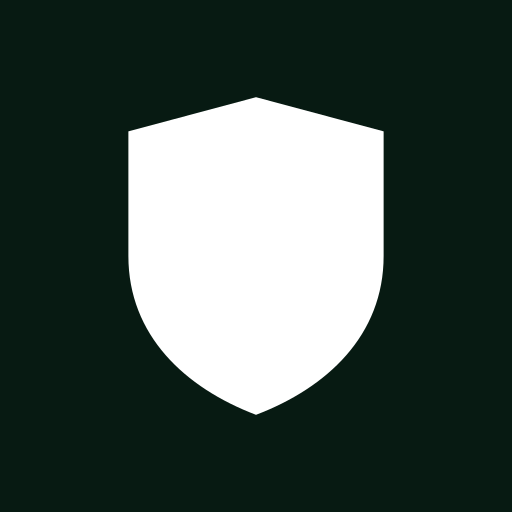
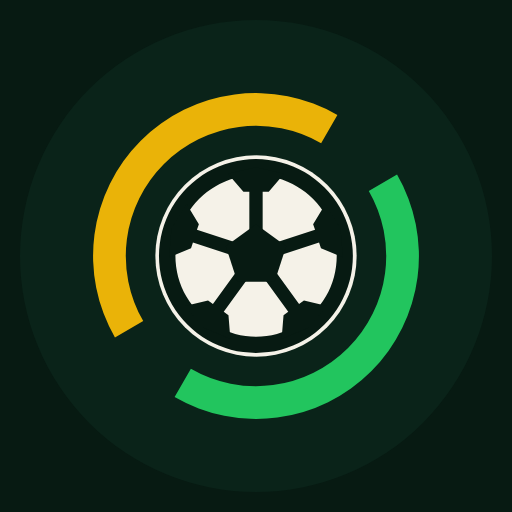
Refactor code structure for improved readability and maintainability

Changed region(s): [[0.1562, 0.1562, 0.8438, 0.8438]]

diff --git a/src/components/TiraTimeCrest.tsx b/src/components/TiraTimeCrest.tsx
@@ -7,33 +7,48 @@ export function TiraTimeCrest({ className = 'w-11 h-11' }: { className?: string 
       viewBox="0 0 256 256"
       className={className}
       role="img"
-      aria-label="Escudo TiraTime"
+      aria-label="Logo TiraTime"
     >
-      <path
-        fill="#0A2419"
-        d="M 128 20 L 212 42.5 L 212 128 C 212 182 174 218 128 236 C 82 218 44 182 44 128 L 44 42.5 Z"
-      />
+      {/* Top-left spinning urn arc (Trophy Gold) */}
       <path
         fill="#EAB308"
+        d="M 32.7 183 A 110 110 0 0 1 183 32.7 L 172 51.8 A 88 88 0 0 0 51.8 172 Z"
+      />
+      {/* Bottom-right spinning urn arc (Pitch Emerald) */}
+      <path
+        fill="#22C55E"
+        d="M 223.3 73 A 110 110 0 0 1 73 223.3 L 84 204.2 A 88 88 0 0 0 204.2 84 Z"
+      />
+      {/* Classic geometric football */}
+      <circle cx="128" cy="128" r="68" fill="#F5F2E8" />
+      <path
+        fill="#071A12"
         fillRule="evenodd"
-        d="M 128 16 L 218 40.1 L 218 128 C 218 184 178 221 128 240 C 78 221 38 184 38 128 L 38 40.1 Z M 128 32 L 54 51.8 L 54 128 C 54 174 88 204 128 221 C 168 204 202 174 202 128 L 202 51.8 Z"
+        d="M 128 62.5 A 65.5 65.5 0 1 1 127.9 62.5 Z M 128 73.5 A 54.5 54.5 0 1 0 128.1 73.5 Z"
       />
       <path
-        fill="#F5F2E8"
-        fillRule="evenodd"
-        d="M 128 62 A 34 34 0 1 1 127.9 62 Z M 128 81 L 142.3 91.4 L 136.8 108.1 L 119.2 108.1 L 113.7 91.4 Z"
+        fill="#071A12"
+        d="M 123.5 113.4 L 132.5 113.4 L 132.5 84.6 L 136.6 84.6 L 147 72.5 L 128 68 L 109 72.5 L 119.5 84.6 L 123.5 84.6 Z"
       />
       <path
-        fill="#0A2419"
-        d="M 125.5 61 L 130.5 61 L 130.5 82 L 125.5 82 Z M 141.5 89.0 L 160.5 82.8 L 162.1 87.6 L 143.1 93.8 Z M 138.8 106.7 L 150.6 122.9 L 146.6 125.8 L 134.8 109.6 Z M 117.2 106.7 L 105.4 122.9 L 109.4 125.8 L 121.2 109.6 Z M 114.5 89.0 L 95.5 82.8 L 93.9 87.6 L 112.9 93.8 Z"
+        fill="#071A12"
+        d="M 140.5 119.2 L 143.3 127.8 L 170.6 118.9 L 171.9 122.7 L 186.7 128.9 L 185.1 109.5 L 174.9 92.8 L 166.6 106.5 L 167.9 110.3 Z"
       />
       <path
-        fill="#EAB308"
-        d="M 72 138 C 94 156 162 156 184 138 L 172 164 C 152 178 104 178 84 164 Z"
+        fill="#071A12"
+        d="M 140.2 137.2 L 133 142.5 L 149.8 165.7 L 146.6 168.1 L 145.3 184.1 L 163.3 176.5 L 176 161.7 L 160.4 158.1 L 157.1 160.4 Z"
       />
       <path
-        fill="#F5F2E8"
-        d="M 92 176 L 128 196.8 L 164 176 L 164 188 L 128 208.8 L 92 188 Z"
+        fill="#071A12"
+        d="M 123 142.5 L 115.8 137.2 L 98.9 160.4 L 95.6 158.1 L 80 161.7 L 92.7 176.5 L 110.7 184.1 L 109.4 168.1 L 106.2 165.7 Z"
+      />
+      <path
+        fill="#071A12"
+        d="M 112.7 127.8 L 115.5 119.2 L 88.1 110.3 L 89.4 106.5 L 81.1 92.8 L 70.9 109.5 L 69.3 128.9 L 84.1 122.7 L 85.4 118.9 Z"
+      />
+      <polygon
+        fill="#071A12"
+        points="128,106.5 148.4,121.4 140.6,145.4 115.4,145.4 107.6,121.4"
       />
     </svg>
   );

diff --git a/index.html b/index.html
@@ -7,6 +7,32 @@
       content="width=device-width, initial-scale=1, viewport-fit=cover, interactive-widget=resizes-content"
     />
     <title>TiraTime — Sorteio de Times & Urna da Pelada</title>
+    <meta
+      name="description"
+      content="Cole a lista do WhatsApp, gire a urna e divida os times da pelada de forma justa e sem spoiler."
+    />
+    <meta property="og:type" content="website" />
+    <meta property="og:site_name" content="TiraTime" />
+    <meta property="og:locale" content="pt_BR" />
+    <meta property="og:url" content="https://tiratimeweb.vercel.app/" />
+    <meta property="og:title" content="TiraTime — Sorteio de Times & Urna da Pelada" />
+    <meta
+      property="og:description"
+      content="Cole a lista do WhatsApp, gire a urna e divida os times da pelada de forma justa e sem spoiler."
+    />
+    <meta property="og:image" content="https://tiratimeweb.vercel.app/og-image.png?v=2" />
+    <meta property="og:image:secure_url" content="https://tiratimeweb.vercel.app/og-image.png?v=2" />
+    <meta property="og:image:type" content="image/png" />
+    <meta property="og:image:width" content="1200" />
+    <meta property="og:image:height" content="630" />
+    <meta property="og:image:alt" content="TiraTime — Sorteio de Times e Urna da Pelada" />
+    <meta name="twitter:card" content="summary_large_image" />
+    <meta name="twitter:title" content="TiraTime — Sorteio de Times & Urna da Pelada" />
+    <meta
+      name="twitter:description"
+      content="Cole a lista do WhatsApp, gire a urna e divida os times da pelada de forma justa e sem spoiler."
+    />
+    <meta name="twitter:image" content="https://tiratimeweb.vercel.app/og-image.png?v=2" />
     <link rel="icon" href="/favicon.ico" sizes="48x48" />
     <link rel="icon" href="/favicon.svg" type="image/svg+xml" />
     <link rel="apple-touch-icon" href="/apple-touch-icon.png" />

diff --git a/src/App.tsx b/src/App.tsx
@@ -197,11 +197,12 @@ export function App() {
     if (!match) return;
     const shareUrl = `${window.location.origin}/?pelada=${encodeURIComponent(match.slug)}`;
     const when = [match.meta.dateLabel, match.meta.timeLabel].filter(Boolean).join(' · ');
-    const shareText = `${match.groupName}${when ? ` (${when})` : ''}\nEntre no link e descubra seu time: ${shareUrl}`;
+    const sharePrompt = `${match.groupName}${when ? ` (${when})` : ''}\nEntre no link e descubra seu time:`;
+    const shareText = `${sharePrompt} ${shareUrl}`;
 
     if (navigator.share) {
       try {
-        await navigator.share({ title: `${match.groupName} — TiraTime`, text: shareText, url: shareUrl });
+        await navigator.share({ title: `${match.groupName} — TiraTime`, text: sharePrompt, url: shareUrl });
         return;
       } catch {
         // fallback to clipboard
